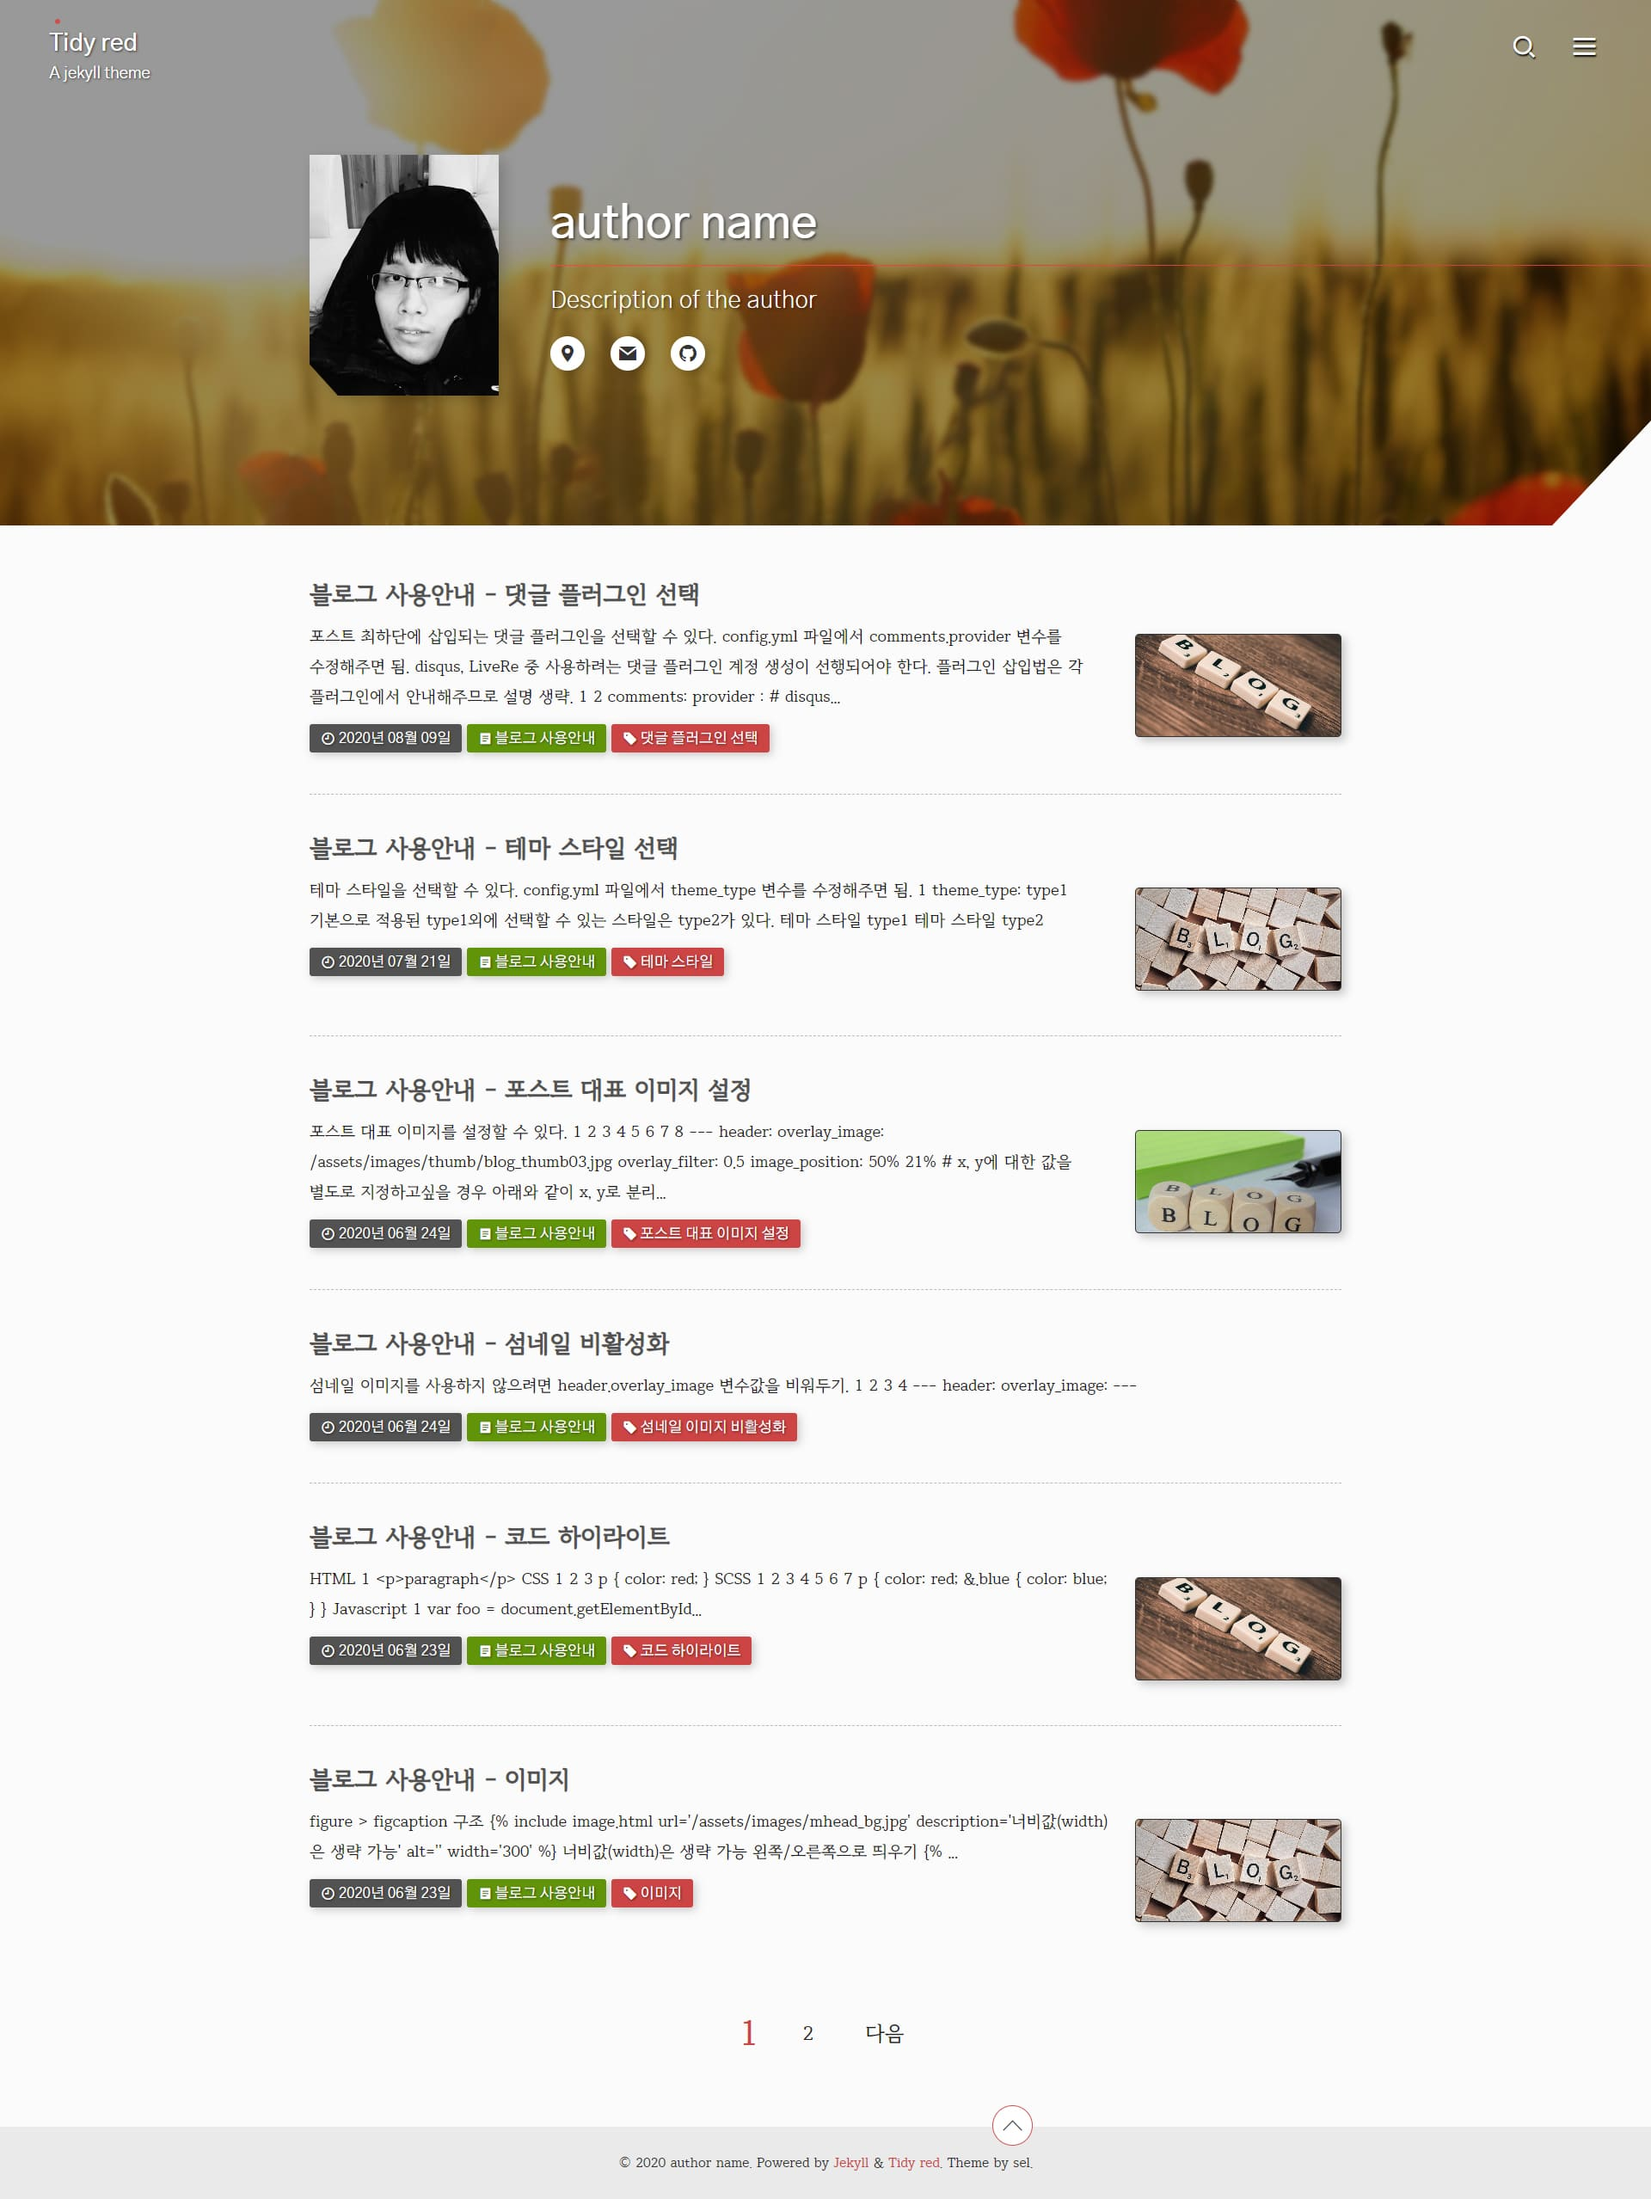
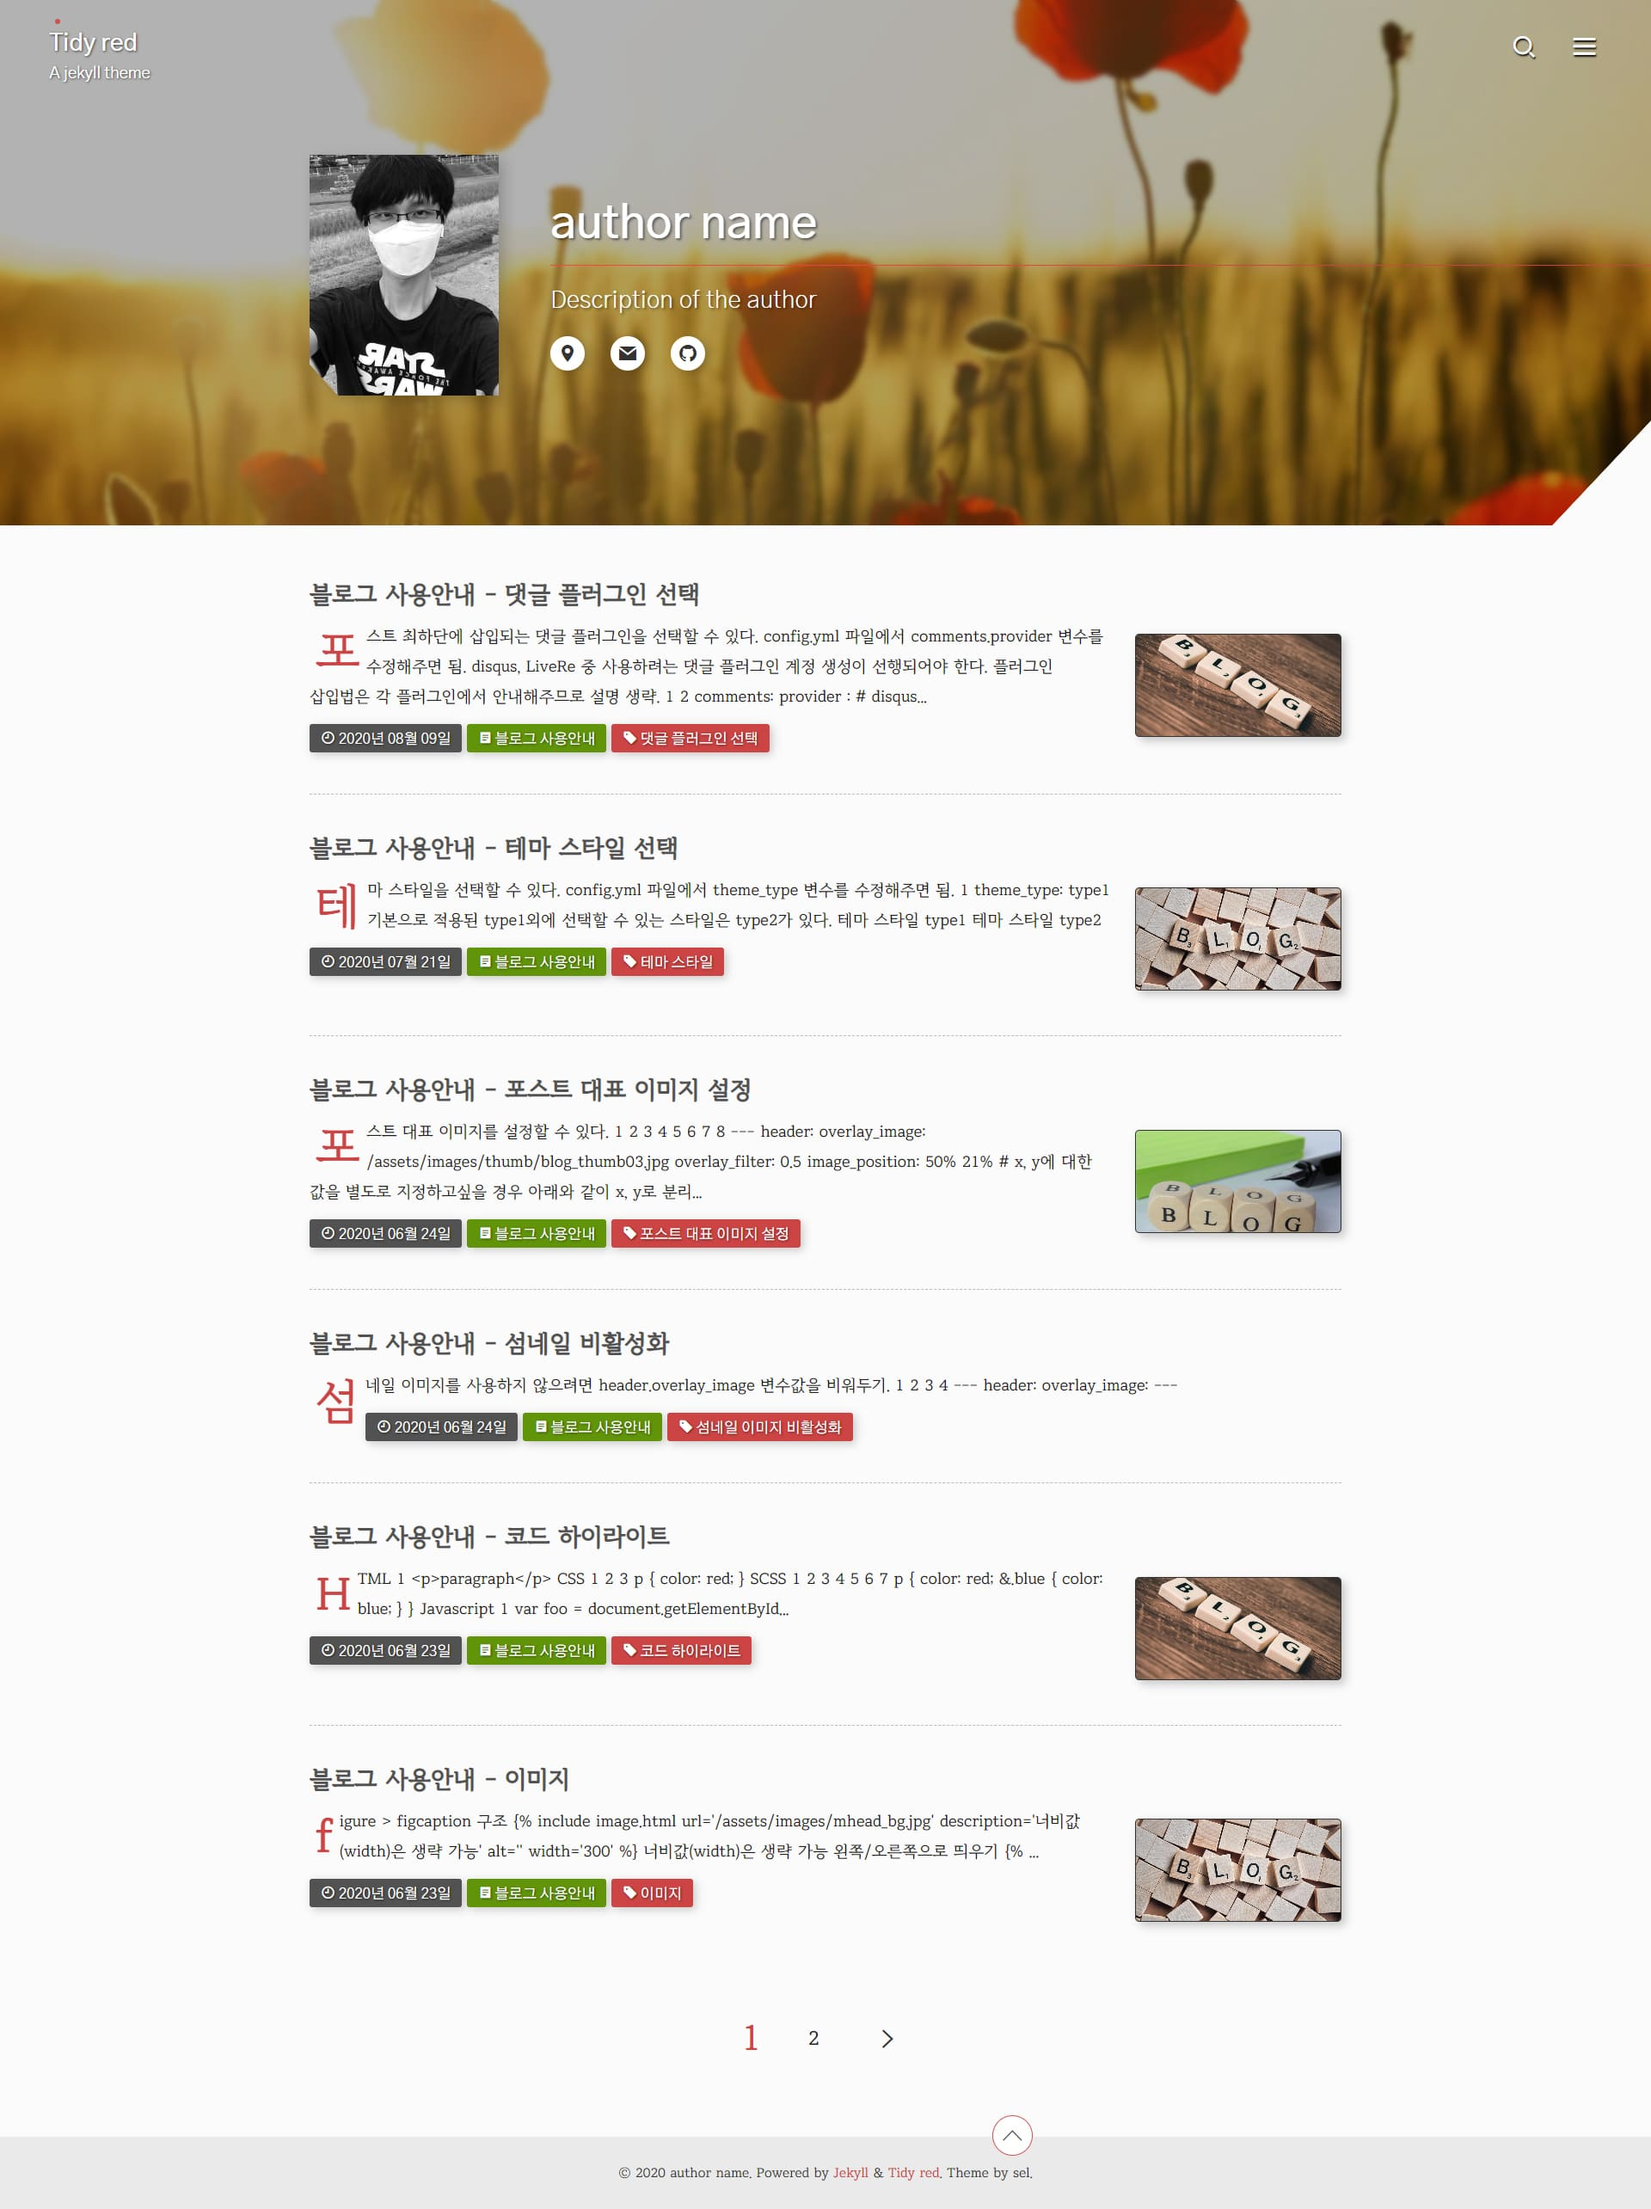
레이아웃 HTML/CSS 수정

diff --git a/_includes/archive-single.html b/_includes/archive-single.html
@@ -18,7 +18,7 @@
     <div aria-hidden="true" class="archive__item-thumb" style="background-image: url({{ post.header.overlay_image }});"></div>
     {% endif %}
     {% endif %}
-    <p itemprop="description" id="desc-{{ postUrl_r }}" class="archive__item-content{% if site.theme_type == 'type2' and post.first_letter != false %} has-first-letter{% endif %}">{{ post.content | markdownify | strip_html | truncate: 200 }}</p>
+    <p itemprop="description" id="desc-{{ postUrl_r }}" class="archive__item-content{% if post.first_letter != false %} has-first-letter{% endif %}">{{ post.content | markdownify | strip_html | truncate: 200 }}</p>
     <div class="archive__item__info-item-wrapper">
       {% if post.date %}
       <span class="archive__item__info-item archive__item__info-item--date"><span class="visually-hidden">{{ site.data.ui-text[site.locale].date_label }}</span> <time datetime="{{ post.date | date_to_xmlschema }}">{{ post.date | date: "%Y년 %m월 %d일" }}</time></span>

diff --git a/_sass/tidy-red/_masthead.scss b/_sass/tidy-red/_masthead.scss
@@ -158,7 +158,9 @@
          li {
             width: 2rem;
             height: 2rem;
-            margin: 1rem 1rem 0 1rem;
+            margin-top: 1rem;
+            margin-right: 1rem;
+            margin-left: 1rem;
             border-radius: 50%;
             background-color: $grey12;
             box-shadow: rgba(0,0,0,0.2) 0.25rem 0.15rem 0.5rem;
@@ -289,7 +291,8 @@
          }
       }
 
-      &.layout--home {
+      &.layout--home,
+      &.layout--page {
          .masthead {
             @media (min-width: $min-small-width) {
                -webkit-clip-path: polygon(0 0, 100% 0, 100% 80%, 94% 100%, 0 100%, 0% 50%);
